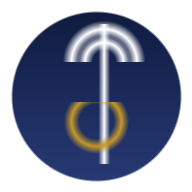
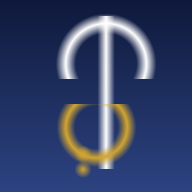
Add files via upload

diff --git a/sw.js b/sw.js
@@ -1,18 +1,17 @@
 const CACHE = 'cd-catalogue-v1';
+const BASE = '/CD-Catalogue/';
 const ASSETS = [
-  '/',
-  '/index.html',
+  BASE,
+  BASE + 'index.html',
   'https://fonts.googleapis.com/css2?family=Cormorant+Garamond:ital,wght@0,500;0,600;1,500&family=DM+Sans:wght@300;400;500&display=swap'
 ];
 
-// Install — cache core assets
 self.addEventListener('install', e => {
   e.waitUntil(
     caches.open(CACHE).then(c => c.addAll(ASSETS)).then(() => self.skipWaiting())
   );
 });
 
-// Activate — clean up old caches
 self.addEventListener('activate', e => {
   e.waitUntil(
     caches.keys().then(keys =>
@@ -21,14 +20,10 @@ self.addEventListener('activate', e => {
   );
 });
 
-// Fetch — serve from cache, fall back to network
 self.addEventListener('fetch', e => {
-  // Always use network for iTunes API calls
-  if (e.request.url.includes('itunes.apple.com')) return;
   e.respondWith(
     caches.match(e.request).then(cached => cached || fetch(e.request).then(res => {
-      // Cache fresh HTML responses
-      if (e.request.url.endsWith('.html') || e.request.url.endsWith('/')) {
+      if (e.request.url.includes('index.html') || e.request.url.endsWith(BASE)) {
         const clone = res.clone();
         caches.open(CACHE).then(c => c.put(e.request, clone));
       }